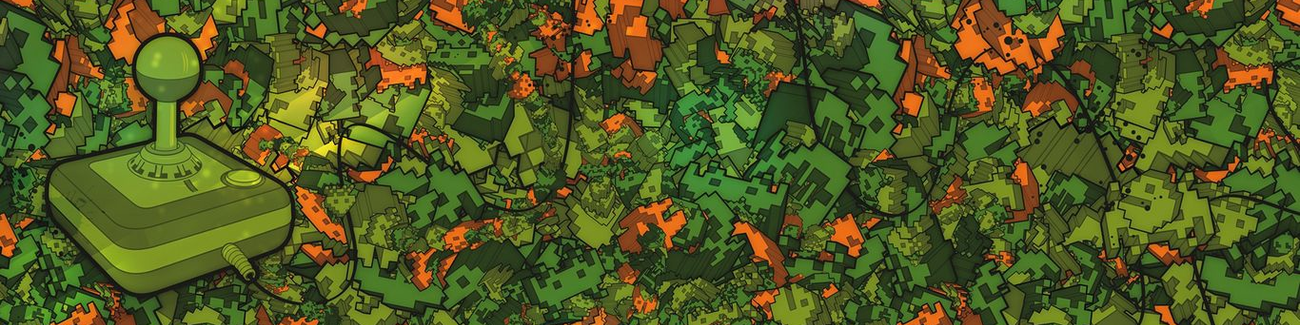
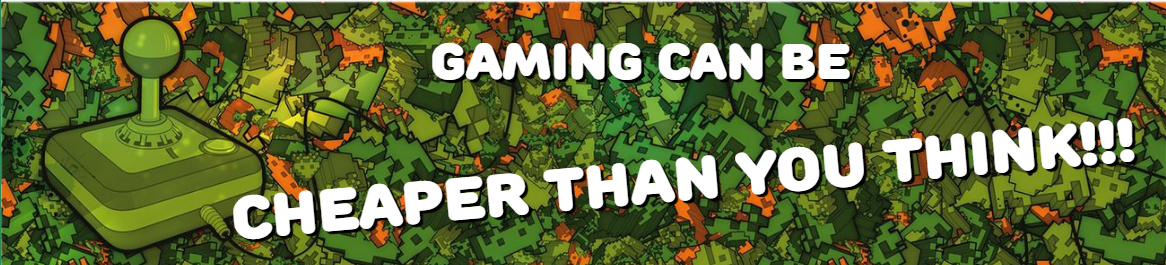
1

diff --git a/css/header.css b/css/header.css
@@ -61,27 +61,6 @@ header .top input {
     justify-content: center;
     align-items: center;
 }
-.banner div {
-    
-}
-.banner div p {
-    font-family: Banner;
-    color: white;
-    text-shadow: 0 2px 3px black;
-}
-.banner div p:first-child {
-    font-size: 50px;
-    text-indent: 400px;
-    color: white;
-    text-shadow: 3px 3px 1px black;
-}
-.banner div p:last-child {
-    font-size: 60px;
-    color: white;
-    text-shadow: 3px 3px 1px black;
-    text-indent: 200px;
-    transform: rotate(-5deg);
-}
 header nav {
     background: black;
     padding: 10px 0 4px;
@@ -101,7 +80,7 @@ header nav ul li {
 }
 header nav ul li a {
     color: whitesmoke;
-    font-size: 25px;
+    font-size: 40vm;
     text-decoration: none;
     font-family: banner;
 }

diff --git a/index.html b/index.html
@@ -32,10 +32,6 @@
             </form>
         </div>
         <div class="banner">
-            <div>
-                <p>GAMING CAN BE</p>
-                <p>CHEAPER THAN YOU THINK!!!</p>
-            </div>
         </div>
         <nav>
             <ul>
